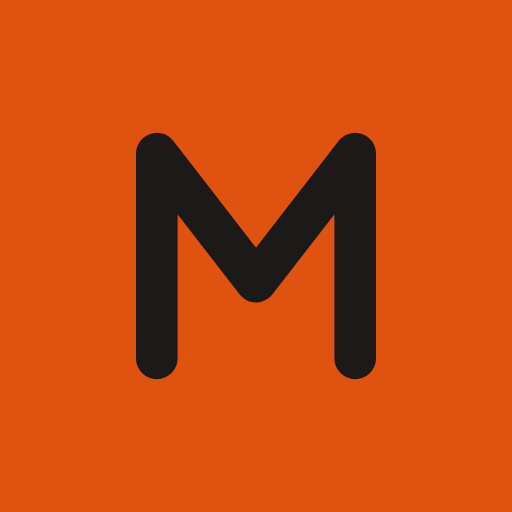
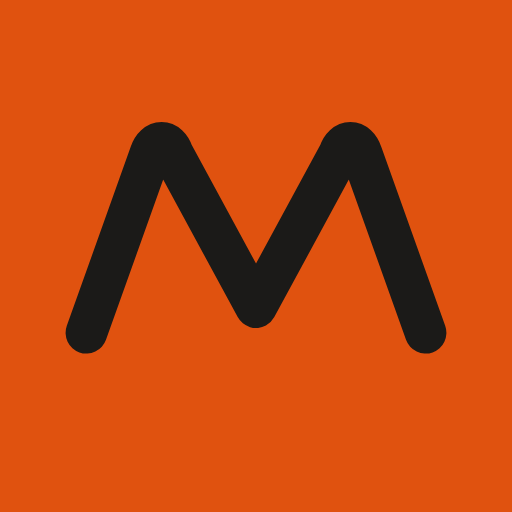
Mark: the signal in the ring
The M is two peaks of a waveform inside the record-label ring, set about
one unit above centre so it reads optically centred. Same on the key,
favicon, icons, press kit and brand page; the ℗ stays in the tag.

Claude-Session: https://claude.ai/code/session_01PXLdws1ZUYVP4QoPYJzYg7

diff --git a/scripts/apple-touch-icon.html b/scripts/apple-touch-icon.html
@@ -4,7 +4,7 @@
   iOS uses when the site is saved to a home screen, and which some link
   unfurlers fall back to) and the PNG favicons for browsers that skip SVG.
 
-  It is the key: the M on signal orange, the same drawing as public/favicon.svg.
+  It is the key: the signal M on signal orange, the same drawing as public/favicon.svg.
   Drawn full-bleed and square, because iOS and Android apply their own corner
   mask; a rounded corner here would show as a light edge inside theirs.
 
@@ -23,7 +23,7 @@
   <body>
     <svg viewBox="0 0 32 32" aria-hidden="true">
       <rect width="32" height="32" fill="#e0520f" />
-      <path d="M9.8 22.4V9.6L16 17.6l6.2-8v12.8" fill="none" stroke="#1b1a18" stroke-width="2.6" stroke-linejoin="round" stroke-linecap="round" />
+      <path d="M5.4 20.8l4-11.2c.3-.9 1.1-.9 1.4 0L16 19.2l5.2-9.6c.3-.9 1.1-.9 1.4 0l4 11.2" fill="none" stroke="#1b1a18" stroke-width="2.6" stroke-linejoin="round" stroke-linecap="round" />
     </svg>
   </body>
 </html>

diff --git a/src/styles/global.css b/src/styles/global.css
@@ -218,11 +218,11 @@
     animation: tag-draw 0.45s cubic-bezier(0.65, 0, 0.35, 1) 0.6s forwards;
   }
 
-  /* The logo's M: 12.4 + 9.3 + 9.3 + 12.4 ≈ 43.4. */
+  /* The logo's signal M: two rounded peaks, 40.1 long (measured). */
   .js .tag-draw .tag-m {
-    stroke-dasharray: 44;
-    stroke-dashoffset: 44;
-    animation: tag-draw 0.55s cubic-bezier(0.65, 0, 0.35, 1) 0.6s forwards;
+    stroke-dasharray: 41;
+    stroke-dashoffset: 41;
+    animation: tag-draw 0.7s cubic-bezier(0.65, 0, 0.35, 1) 0.6s forwards;
   }
 
   @keyframes tag-draw {
